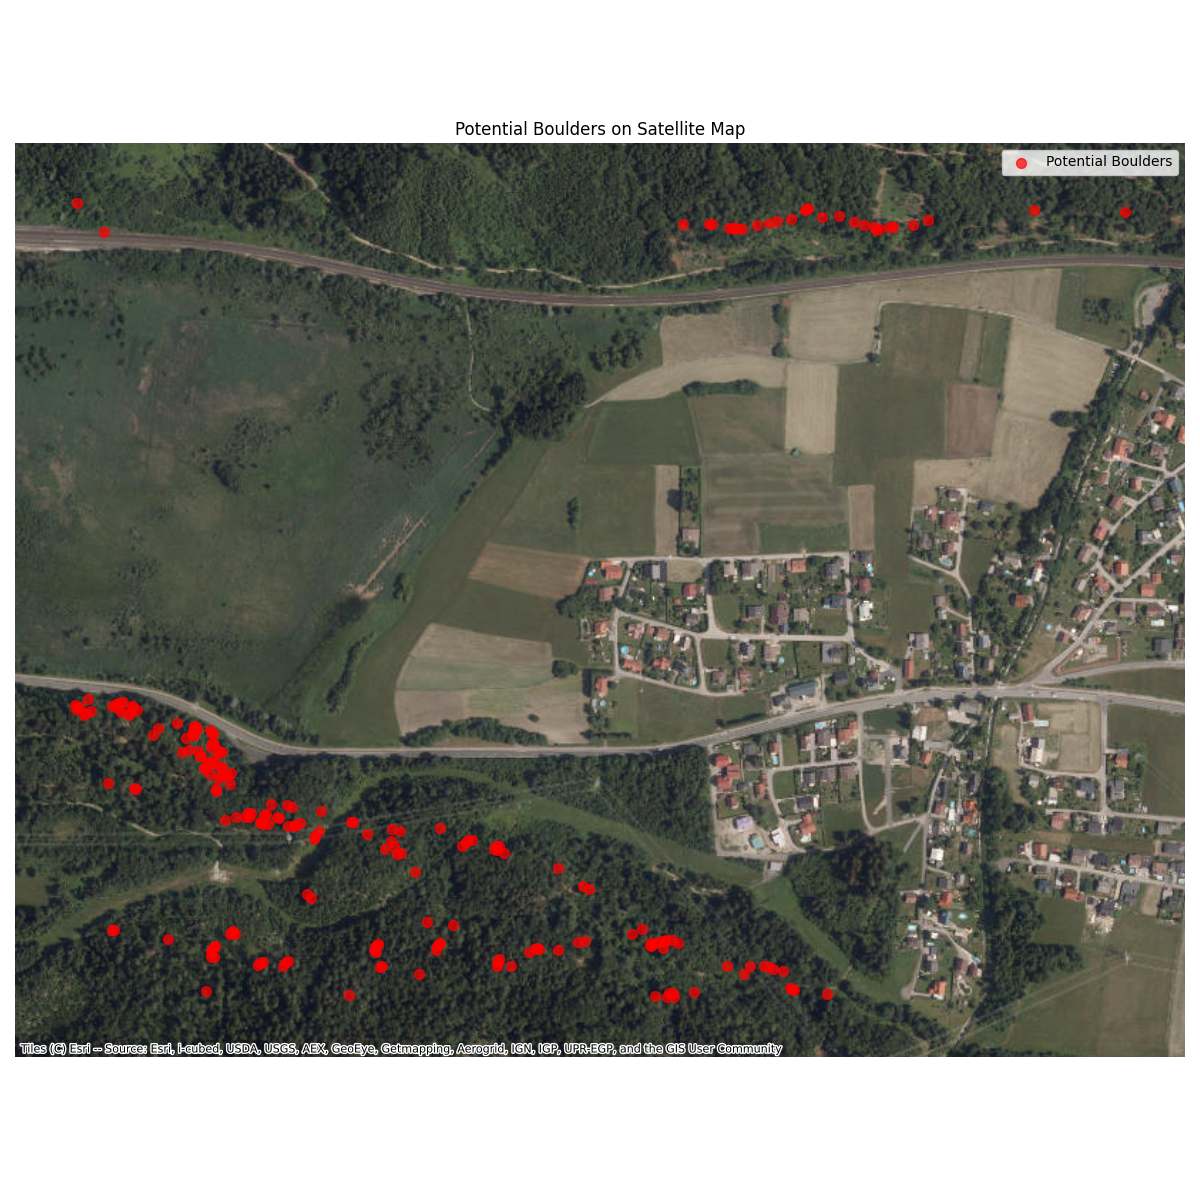
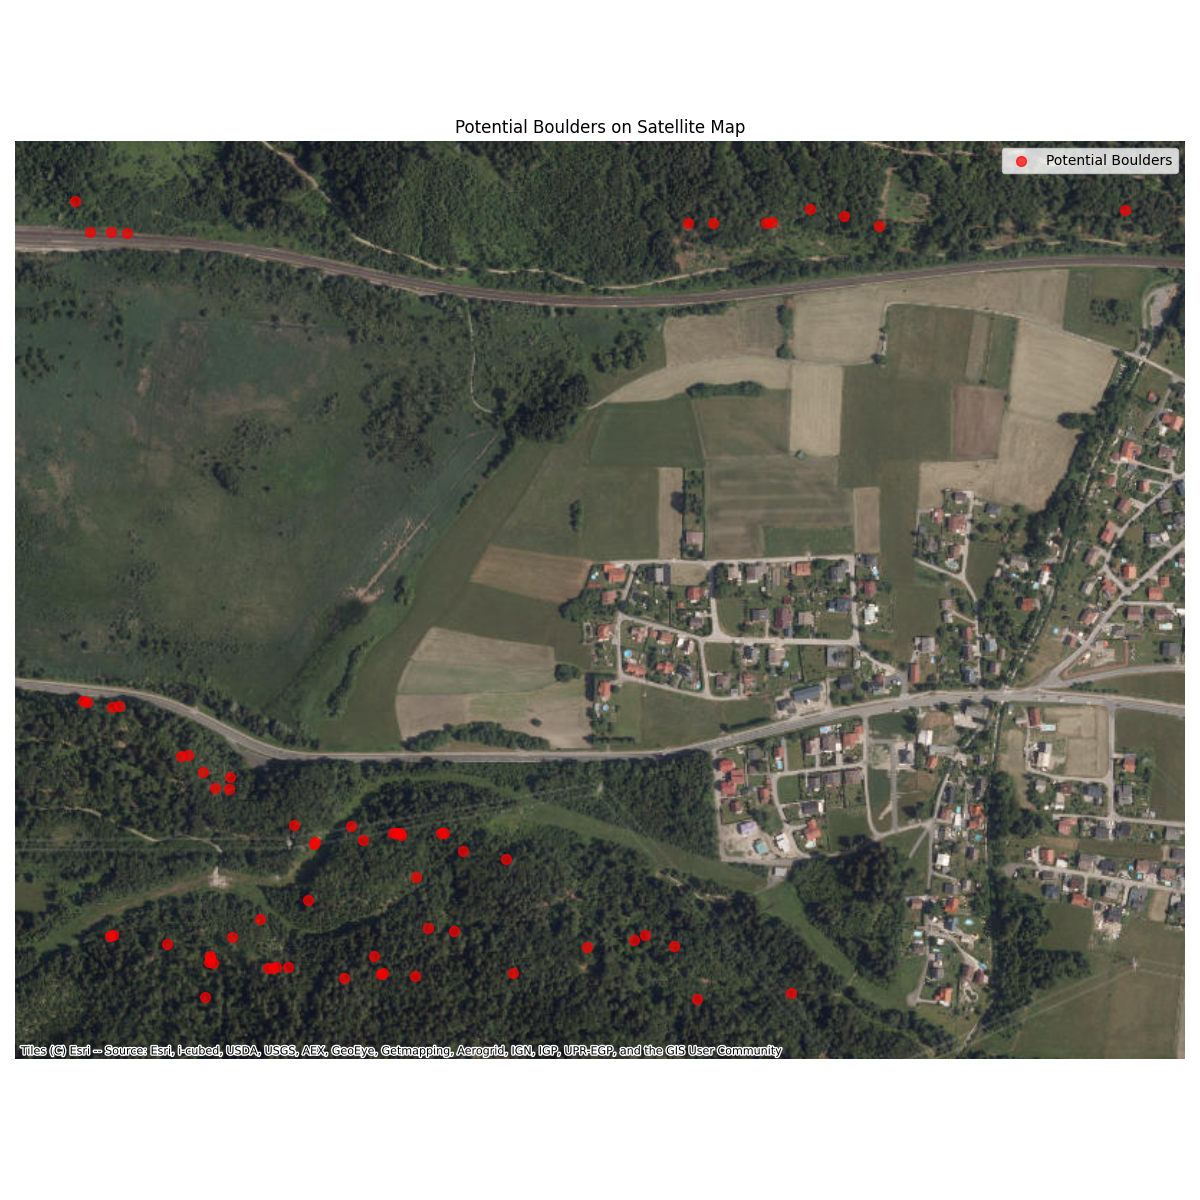
latest status, no clue what I did

diff --git a/import_visualize.py b/import_visualize.py
@@ -302,14 +302,14 @@ if __name__ == "__main__":
     #     plt.tight_layout()
     #     plt.show()
 
-    # # --- Plot DGM as 3D Wireframe or Shaded surface ---
-    # print("\n--- Plotting DGM as 3D Wireframe (Optional) ---")
-    # wireframe_ax = plot_dgm_as_3d_surface(dgm_filepath, title="Digitales Geländemodell (DGM) - Wireframe", 
-    #                                       sample_factor=2, z_exaggeration=2.0, plot_type='wireframe') # surface / wireframe
-    # if wireframe_ax:
-    #     wireframe_ax.view_init(elev=45, azim=-60)
-    #     plt.tight_layout()
-    #     plt.show()
+    # --- Plot DGM as 3D Wireframe or Shaded surface ---
+    print("\n--- Plotting DGM as 3D Wireframe (Optional) ---")
+    wireframe_ax = plot_dgm_as_3d_surface(dgm_filepath, title="Digitales Geländemodell (DGM) - Wireframe", 
+                                          sample_factor=2, z_exaggeration=2.0, plot_type='wireframe') # surface / wireframe
+    if wireframe_ax:
+        wireframe_ax.view_init(elev=45, azim=-60)
+        plt.tight_layout()
+        plt.show()
 
     # --- Calculate and Plot Terrain Metrics ---
     if dgm_data is not None and dgm_transform is not None:
